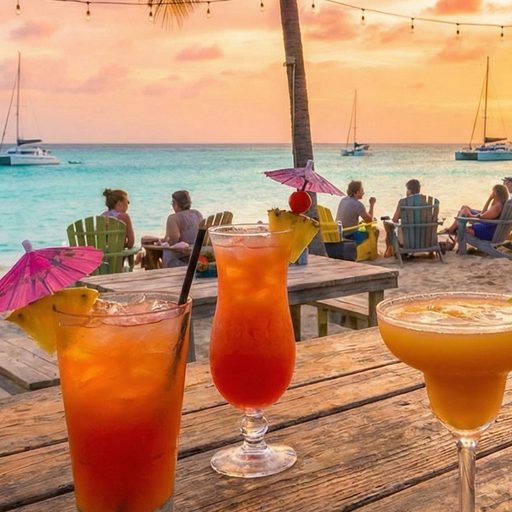
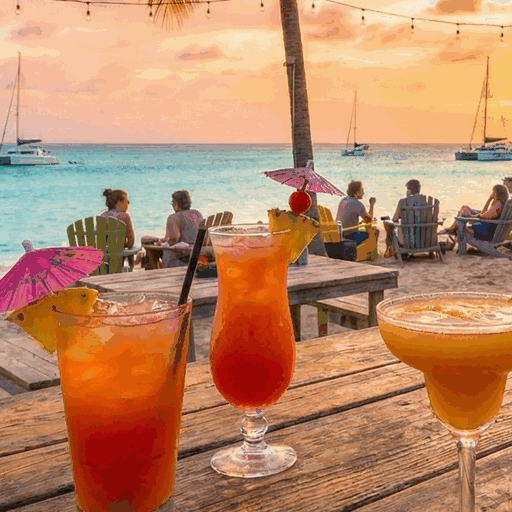
Alleggerisce immagini e controllo aggiornamenti
IMMAGINI: 1.741 KB → 634 KB (−64%)

background.png era in realtà un JPEG con estensione .png: i primi byte
sono FF D8 FF E0, non la firma PNG. I browser lo indovinavano, ma veniva
servito col tipo MIME sbagliato. Ora è background.jpg per davvero,
ricompresso a 1200x1790 (era 1341x2000, oltre il necessario per uno
schermo di telefono con background-size: cover): 948 → 419 KB.

Le icone erano PNG non ottimizzati. Ricomprimerli senza toccare i colori
non dava nulla: erano già compressi al massimo per il numero di tinte.
Sono passate a una palette di 256 colori con quantizzazione octree —
icon-512 da 418 a 106 KB, icon-maskable-512 da 213 a 58, icon-192 da 67
a 20, icon-maskable-192 da 34 a 11, apple-touch-icon da 60 a 18.

Scelta dell'algoritmo verificata guardando le immagini, non solo le
metriche: la quantizzazione MAXCOVERAGE, più economica, posterizzava
visibilmente il cielo e il gradiente dei bicchieri. L'octree pesa un po'
di più e conserva la forma dei gradienti; a dimensione di
visualizzazione reale è indistinguibile dall'originale.

danny-avatar.png resta invariato: 10 KB, non vale toccarlo.

CONTROLLO AGGIORNAMENTI

computeVersion() scaricava l'intero index.html (655 KB) con
cache: 'no-store' a ogni controllo — e il controllo parte all'avvio,
ogni 30 minuti E a ogni ritorno sull'app. Chi passava avanti e indietro
fra applicazioni pagava quei 655 KB ogni volta, in mobilità.

Ora chiede solo gli header con una richiesta HEAD e guarda ETag, o in
[…]

diff --git a/service-worker.js b/service-worker.js
@@ -16,14 +16,40 @@ const VERSION_KEY = './__app_version__';
 const APP_SHELL = [
   './',
   './index.html',
-  './background.png',
+  './background.jpg',
   './manifest.json',
   './icon-192.png',
   './icon-512.png'
 ];
 
-// Impronta del contenuto: se index.html cambia, cambia l'impronta.
+// Impronta della versione: se index.html cambia, cambia l'impronta.
+//
+// Prima si prova a ricavarla dagli HEADER, con una richiesta HEAD: ETag e
+// Last-Modified cambiano quando il file cambia, e non si scarica il
+// contenuto. Conta perche' index.html pesa oltre mezzo megabyte e il
+// controllo parte a ogni ritorno sull'app: chi passa avanti e indietro
+// fra applicazioni pagava quel mezzo megabyte ogni volta, in mobilita'.
+//
+// Se il server non fornisce ne' l'uno ne' l'altro si ricade sull'hash del
+// contenuto, come prima. Cosi' il versionamento resta AUTOMATICO in ogni
+// caso: nessun numero di versione da incrementare a mano.
 async function computeVersion() {
+  try {
+    const head = await fetch('./index.html', { method: 'HEAD', cache: 'no-store' });
+    if (head.ok) {
+      // ETag prima: dipende dal contenuto. Last-Modified puo' cambiare a
+      // ogni pubblicazione anche se il file e' identico, e nel peggiore dei
+      // casi costa un controllo aggiornamenti in piu', non un errore.
+      const marca = head.headers.get('ETag') || head.headers.get('Last-Modified');
+      if (marca) return 'h:' + marca;
+    }
+  } catch (error) {
+    // Nessuna rete, o HEAD non supportato: si prova col contenuto
+  }
+  return 'c:' + await hashIndexHtml();
+}
+
+async function hashIndexHtml() {
   const res = await fetch('./index.html', { cache: 'no-store' });
   const text = await res.text();
   const buffer = await crypto.subtle.digest('SHA-256', new TextEncoder().encode(text));

diff --git a/index.html b/index.html
@@ -50,7 +50,7 @@
 
         body {
             font-family: var(--font-body);
-            background: url('background.png') no-repeat center center fixed;
+            background: url('background.jpg') no-repeat center center fixed;
             background-size: cover;
             min-height: 100vh;
             padding: 20px;

diff --git a/README.md b/README.md
@@ -97,7 +97,7 @@ Non c'è un vero login: l'app riconosce il ruolo dal **nome** scritto alla regis
 ├── manifest.json                       # Configurazione PWA
 ├── service-worker.js                   # Cache offline + auto-aggiornamento
 ├── danny-avatar.png                    # Illustrazione di Danny
-├── background.png                      # Sfondo "tramonto sulla spiaggia"
+├── background.jpg                      # Sfondo "tramonto sulla spiaggia"
 ├── icon-192.png / icon-512.png         # Icone app
 ├── icon-maskable-192.png / -512.png    # Icone adattive Android
 ├── apple-touch-icon.png                # Icona iOS
@@ -124,9 +124,11 @@ Le regole attuali sono deliberatamente permissive (`allow read, write: if true` 
 
 1. Modifica `index.html` (o altri file)
 2. Carica su GitHub Pages
-3. Il service worker rileva da solo il cambiamento (hash del contenuto) e mostra ai clienti già connessi un banner **"Nuova versione disponibile"** — nessun aggiornamento forzato, la scelta di quando ricaricare resta all'utente
+3. Il service worker rileva da solo il cambiamento e mostra ai clienti già connessi un banner **"Nuova versione disponibile"** — nessun aggiornamento forzato, la scelta di quando ricaricare resta all'utente
 
 Non serve incrementare manualmente numeri di versione: è tutto automatico.
+
+Come fa a rilevarlo: chiede al server solo gli **header** di `index.html` (richiesta `HEAD`) e guarda `ETag`, o in mancanza `Last-Modified`. Cambiano quando il file cambia, e non si scarica il contenuto — utile perché il controllo parte anche a ogni ritorno sull'app. Se il server non fornisse nessuno dei due, ricade sull'hash del contenuto: automatico in ogni caso.
 
 ---
 
